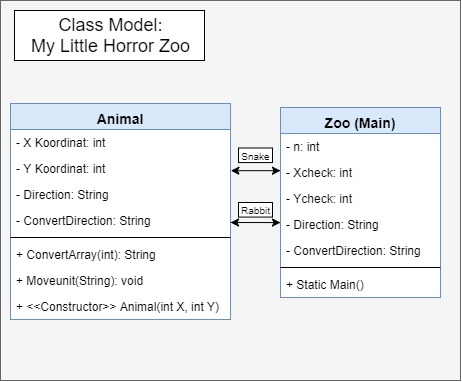
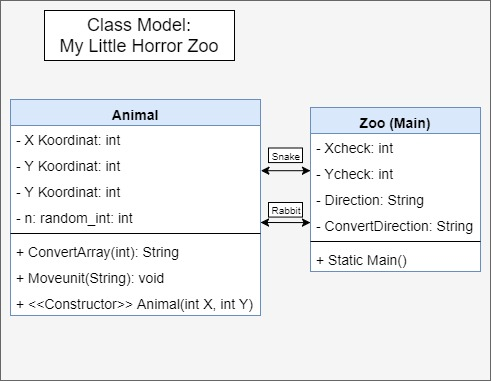
last version

Changed region(s): [[0.0, 0.2592, 1.0, 0.8351], [0.0303, 0.0288, 0.4848, 0.1728], [0.697, 0.288, 0.8788, 0.3455]]

diff --git a/Animal.java b/Animal.java
@@ -5,7 +5,7 @@ public class Animal{
   //Declare variables
   private int x;
   private int y;
-  private int n;
+  private int random_int;
 
   //make random object
   Random rand = new Random();
@@ -29,10 +29,10 @@ public class Animal{
   //Convert rabbit move input from random int to string
   public String convertarray(){
     //Gives random number between 0-3
-    this.n = rand.nextInt(4);
+    this.random_int = rand.nextInt(4);
     //Array with String directions so we can convert the int
     String[] rabbitstring = {"left","right","up","down"};
-    return rabbitstring[n];
+    return rabbitstring[random_int];
   }
 
   //If-statements to alter the x and y coordinates of the animals
